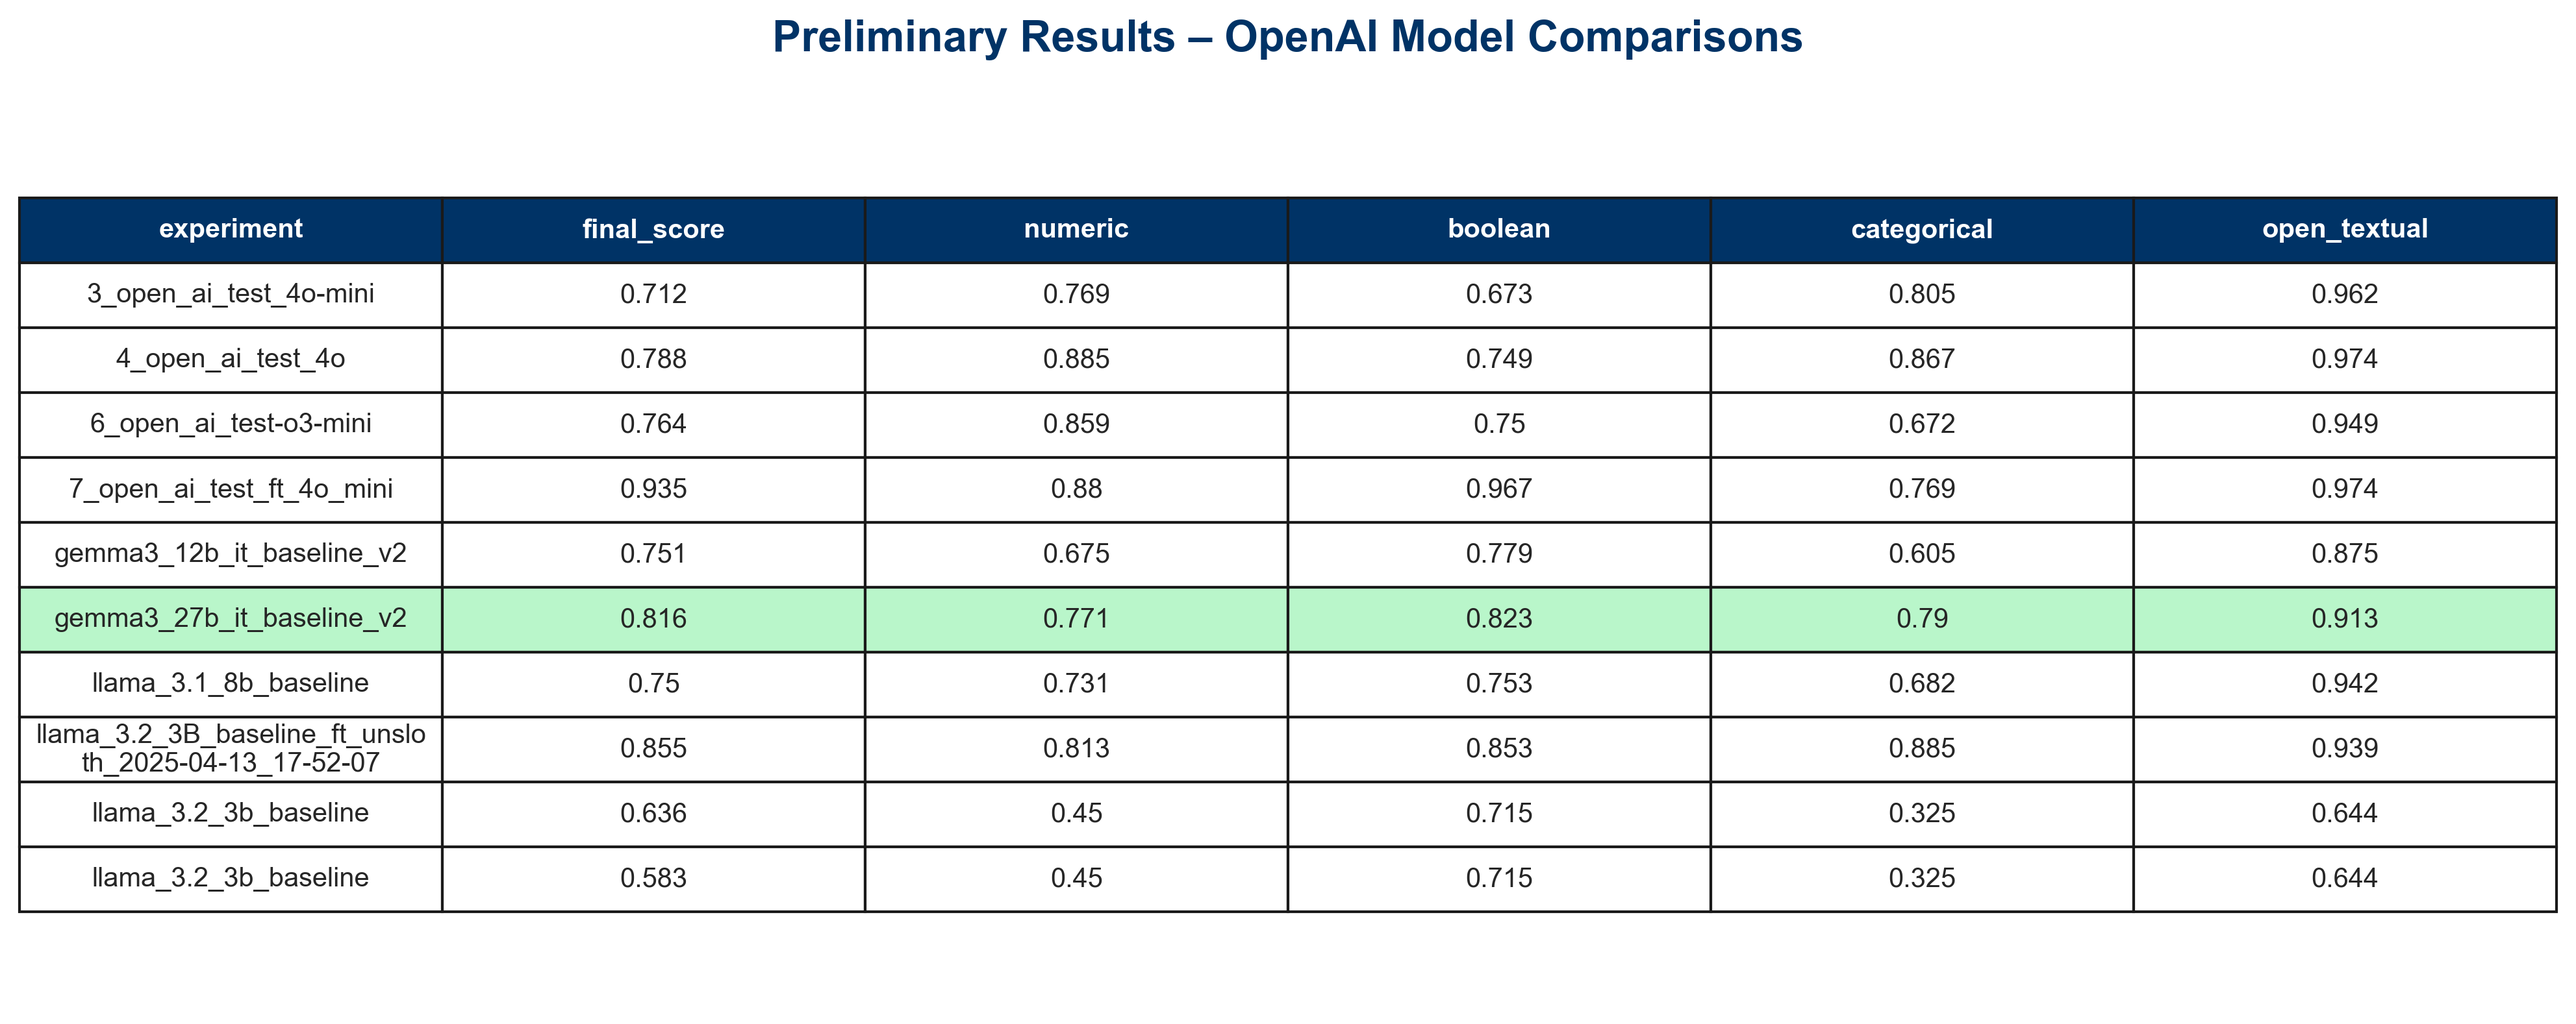
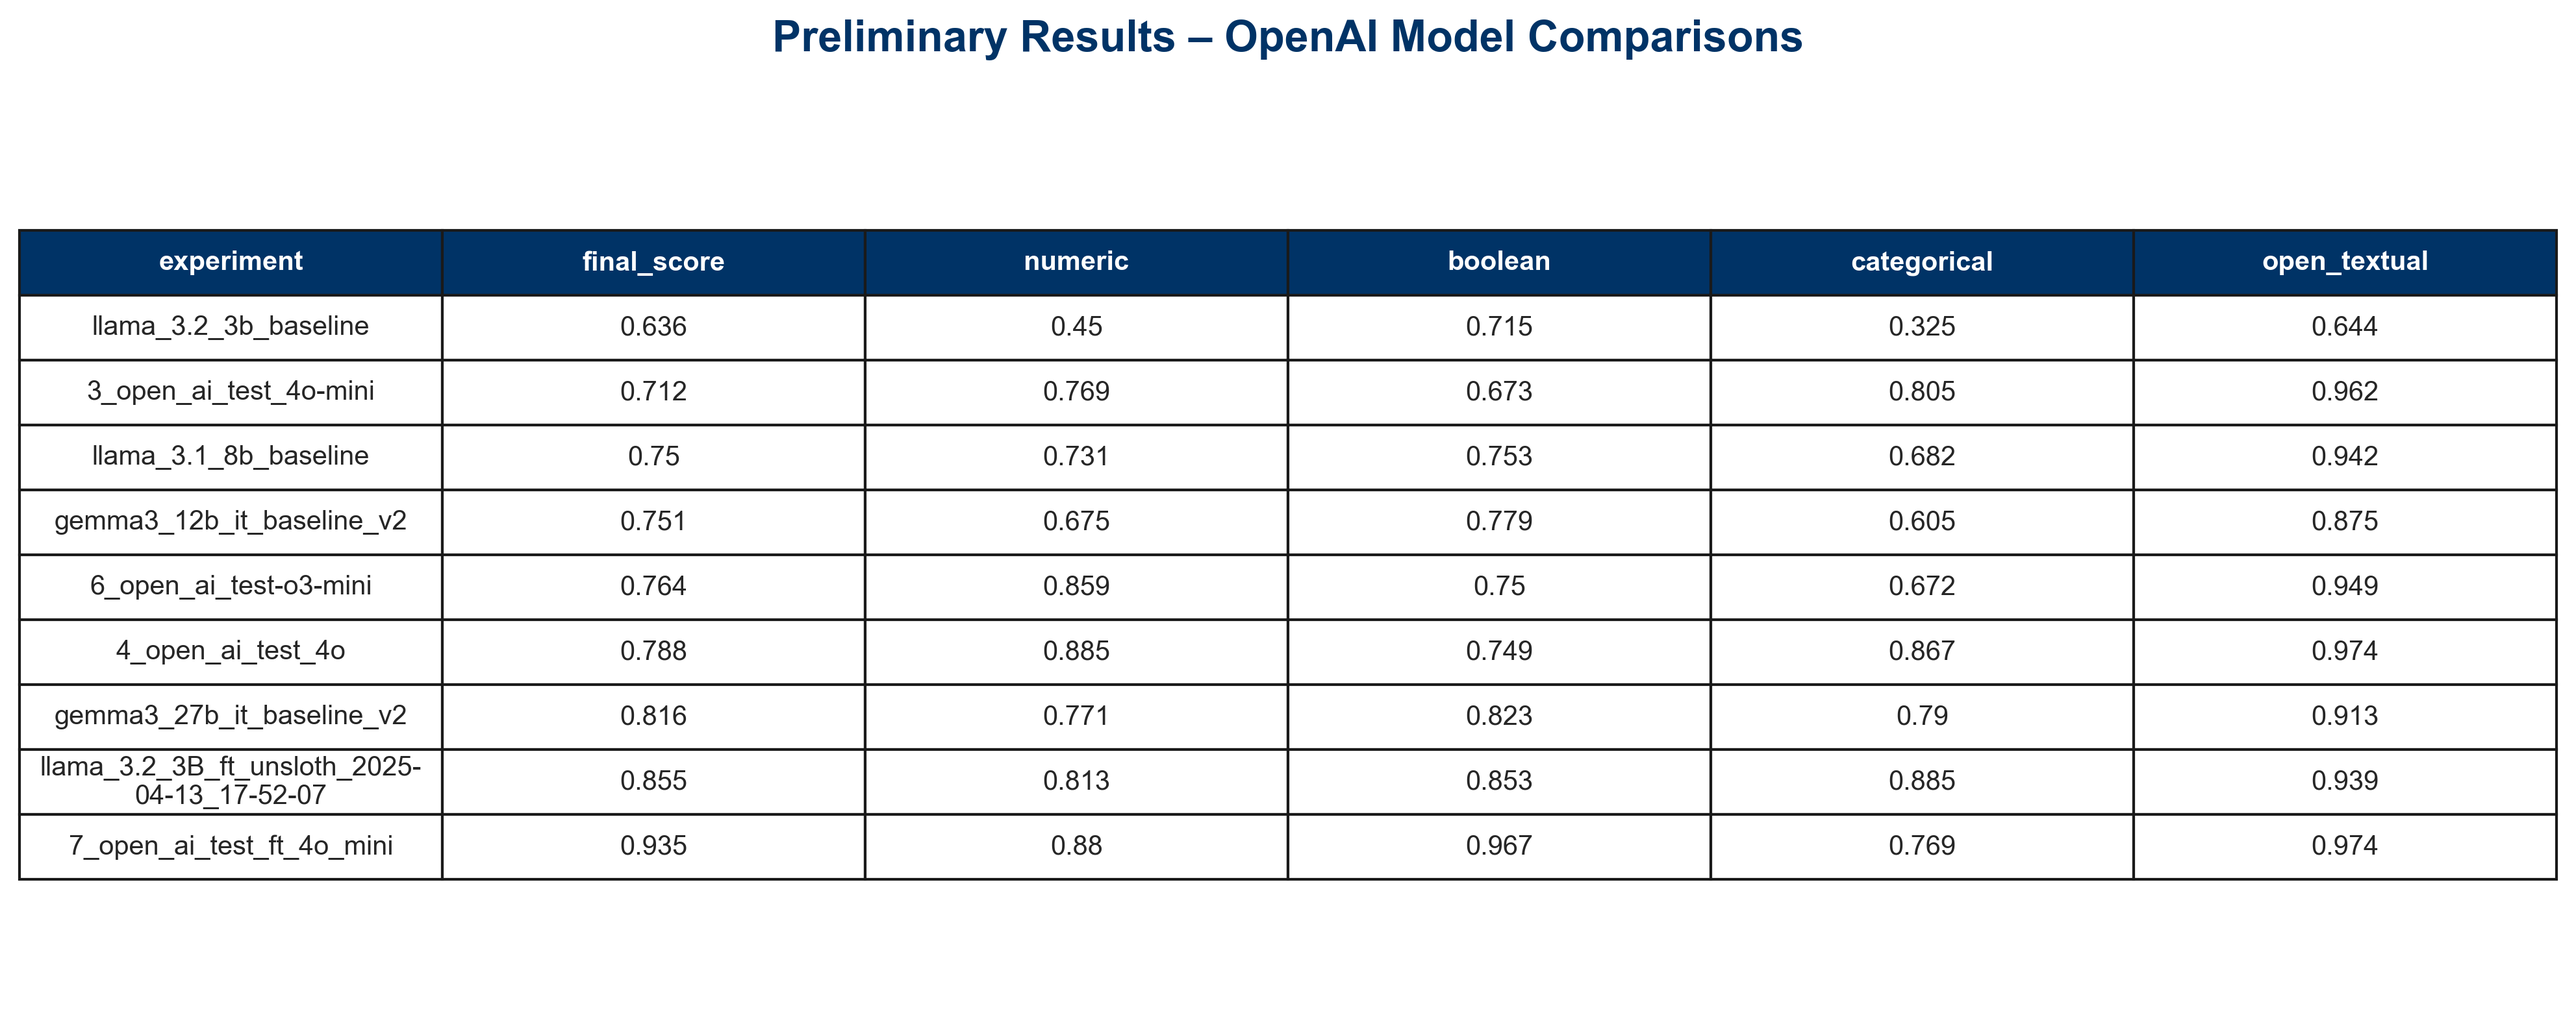
updating eval algorithm

diff --git a/evaluate_results/eval_v3.py b/evaluate_results/eval_v3.py
@@ -328,7 +328,7 @@ final_score = final_score[["experiment", "final_score"]]
 
 # remove final_score null and order by experiment name
 final_score = final_score[final_score["final_score"].notnull()]
-final_score = final_score.sort_values(by="experiment")
+final_score = final_score.sort_values(by="final_score", ascending=True)
 
 # merge with values of result
 final_score = final_score.merge(result, on="experiment")
@@ -374,10 +374,10 @@ for i in range(len(final_score.columns)):
   cell = table[0, i]
   cell.set_text_props(color='white', weight='bold')
 
-highlight_row = 5
+# highlight_row = 5
 # Destaque para a linha do modelo fine-tuned
-for i in range(len(final_score.columns)):
-  table[(highlight_row+1, i)].set_facecolor('#b9f6ca')  # verde pastel
+# for i in range(len(final_score.columns)):
+#   table[(highlight_row+1, i)].set_facecolor('#b9f6ca')  # verde pastel
 
 # Título estilizado
 plt.title("Preliminary Results – OpenAI Model Comparisons", fontsize=16, weight='bold', color='#003366', pad=20)
